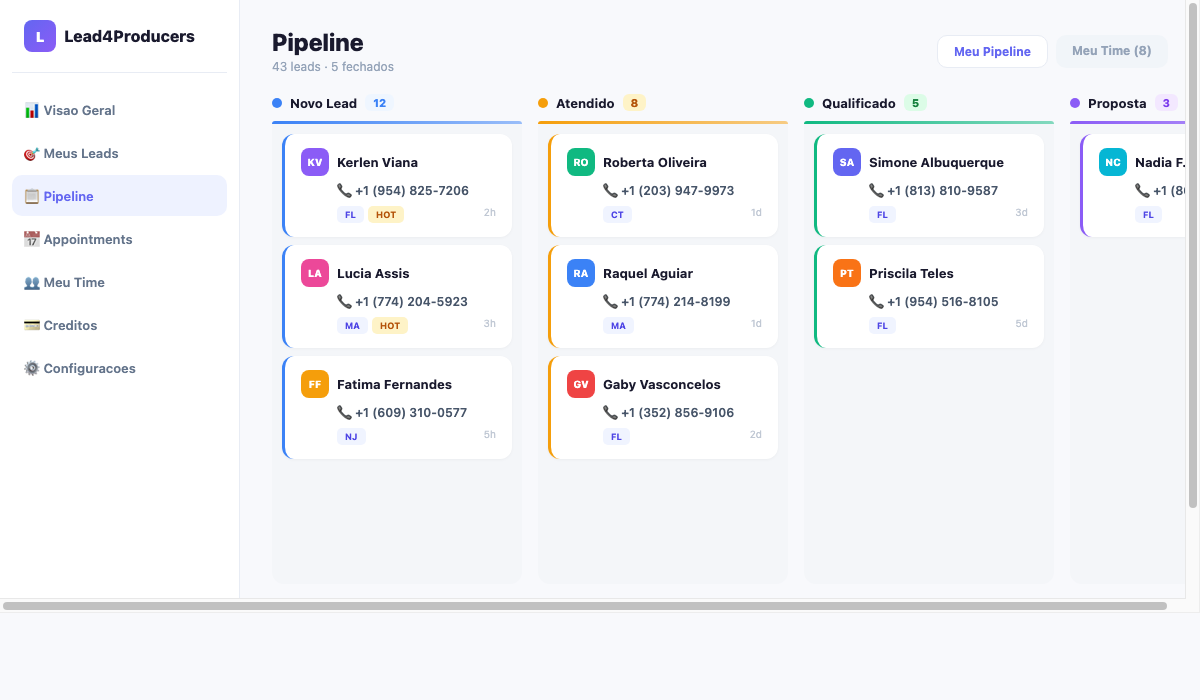
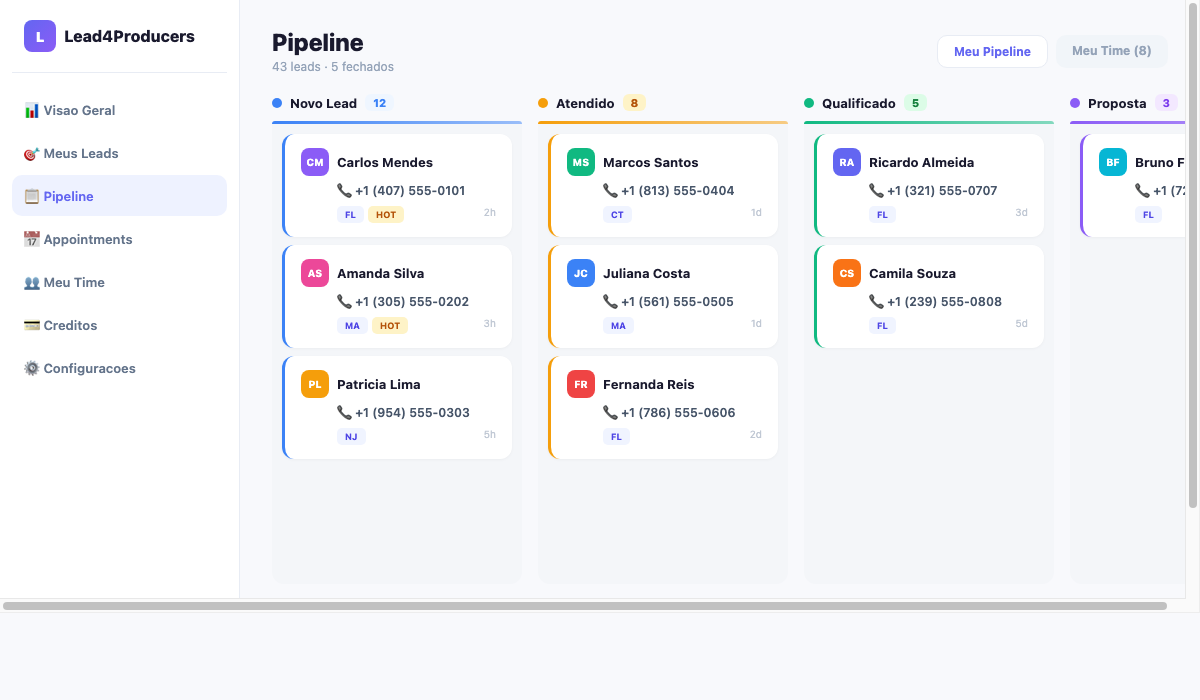
fix: replace ALL real client data with fictional names/phones in mockups and landing page

diff --git a/src/app/page.tsx b/src/app/page.tsx
@@ -185,8 +185,8 @@ export default function LandingPage() {
                     <div className="rounded-xl px-3 py-2.5 max-w-[260px]" style={{ background: '#005c4b' }}>
                       <p className="text-[12px] text-white leading-relaxed">
                         🎯 <strong>Novo Lead — Lead4Producers!</strong><br/><br/>
-                        📋 <strong>Kerlen Viana</strong><br/>
-                        📞 +1 (954) 825-7206<br/>
+                        📋 <strong>Carlos Mendes</strong><br/>
+                        📞 +1 (407) 555-0101<br/>
                         📍 FL<br/>
                         💡 Seguro de vida<br/><br/>
                         ⚡ Ligue nos proximos 5 minutos!
@@ -196,9 +196,9 @@ export default function LandingPage() {
                     <div className="rounded-xl px-3 py-2.5 max-w-[260px]" style={{ background: '#005c4b' }}>
                       <p className="text-[12px] text-white leading-relaxed">
                         🎯 <strong>Novo Lead — Lead4Producers!</strong><br/><br/>
-                        📋 <strong>Monica Gomes</strong><br/>
-                        📞 +1 (973) 932-7648<br/>
-                        📍 NJ<br/>
+                        📋 <strong>Amanda Silva</strong><br/>
+                        📞 +1 (305) 555-0202<br/>
+                        📍 MA<br/>
                         💡 Seguro de vida<br/><br/>
                         ⚡ Ligue nos proximos 5 minutos!
                       </p>
